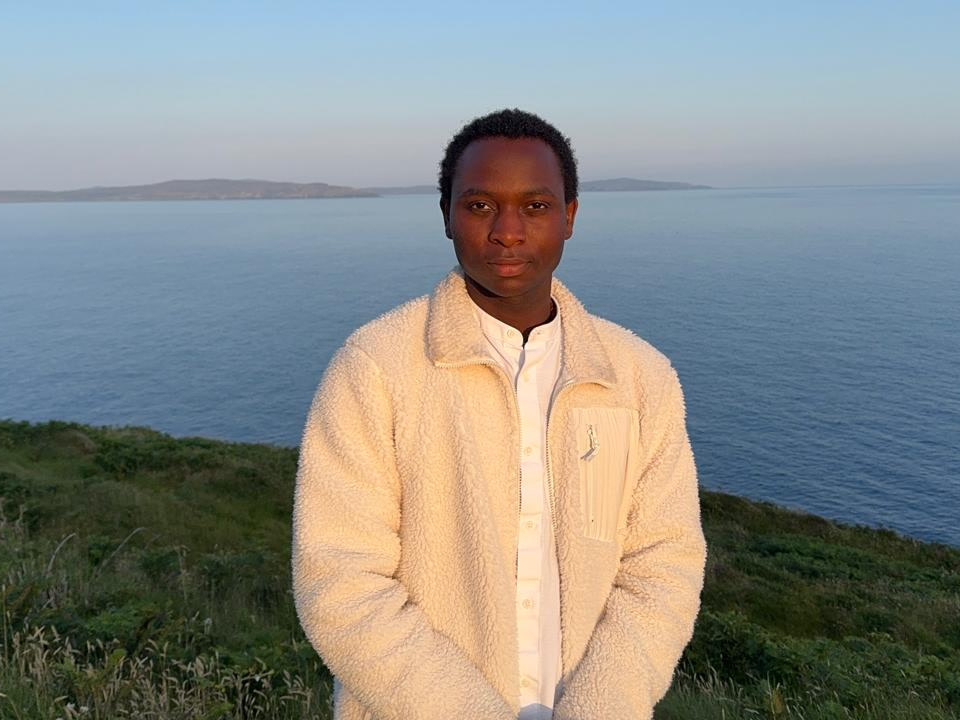
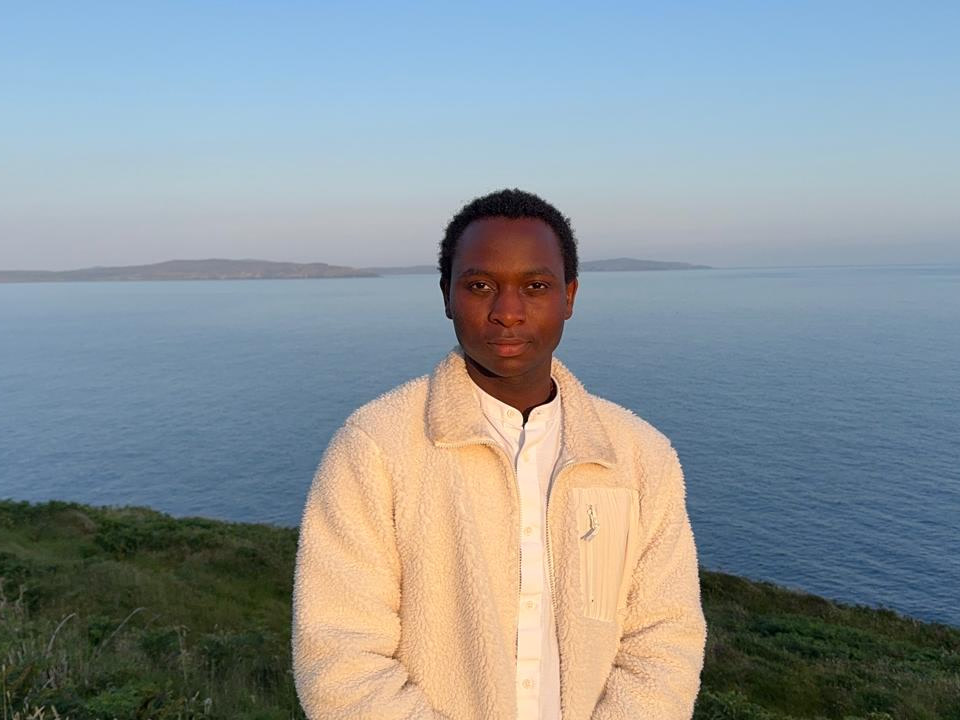
Give mobile hero crop more headroom under the nav
Keeps face clear of the Find what helps control on the stacked strip.

diff --git a/src/components/pages/IndexPage.tsx b/src/components/pages/IndexPage.tsx
@@ -111,7 +111,7 @@ function Hero() {
         <HeroPhoto
           priority
           sizes="100vw"
-          className="absolute inset-0 h-full w-full object-cover object-[center_28%] md:object-left md:object-center"
+          className="absolute inset-0 h-full w-full object-cover object-[center_22%] md:object-left md:object-center"
         />
       </div>
 
